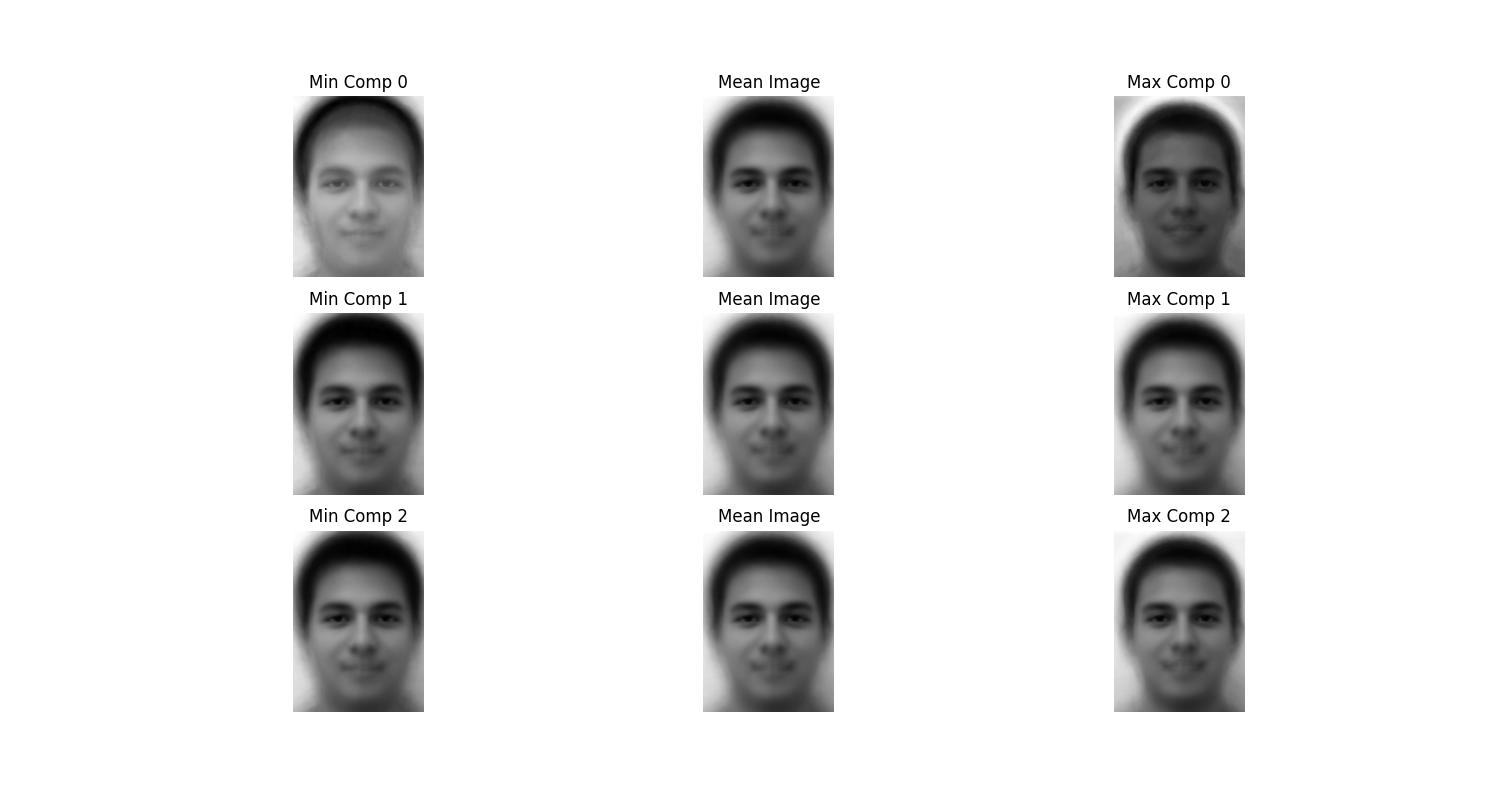
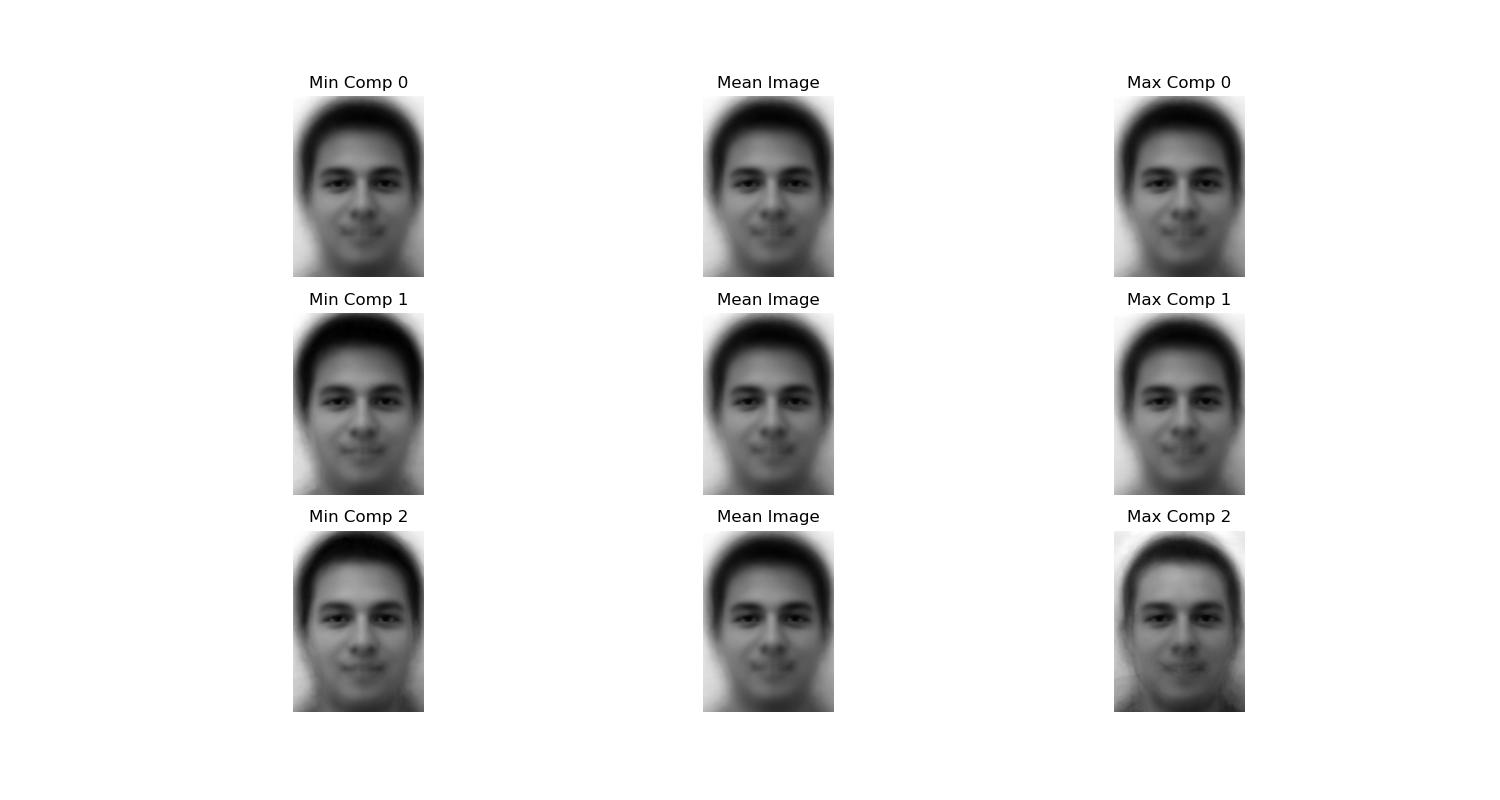
Update the PCA

diff --git a/PCA.py b/PCA.py
@@ -12,15 +12,15 @@ from sklearn.preprocessing import StandardScaler
 from sklearn.decomposition import PCA
 
 # importing or loading the dataset
-dataset = pd.read_csv('20240905_175121.csv', names=["files", "rating"])
+dataset = pd.read_csv('data/20240905_175121.csv')
 path = 'frontalimages_manuallyaligne_greyscale/'
 #path = 'test'
 # %%
-dataset['files']
+dataset
 # %%
 faces_list = []
 
-for file in dataset['files']:
+for file in dataset.ImageName:
     img=imread(path+'/'+file)
     dim = img.shape
     face = pd.Series(img.flatten(),name=path)
@@ -62,8 +62,8 @@ for i in range (0,3):
         pca_keep[:, :n_components] = pca_transformed[:, :n_components]
         return (pca.inverse_transform(pca_keep[index])+avg).reshape(img.shape)
 
-    max_reconstructed = reconstruct(max_score_index, n_components=1)
-    min_reconstructed = reconstruct(min_score_index, n_components=1)
+    max_reconstructed = reconstruct(max_score_index, n_components=i)
+    min_reconstructed = reconstruct(min_score_index, n_components=i)
 
     # Visualize the min, mean, and max images
     # Min Image
